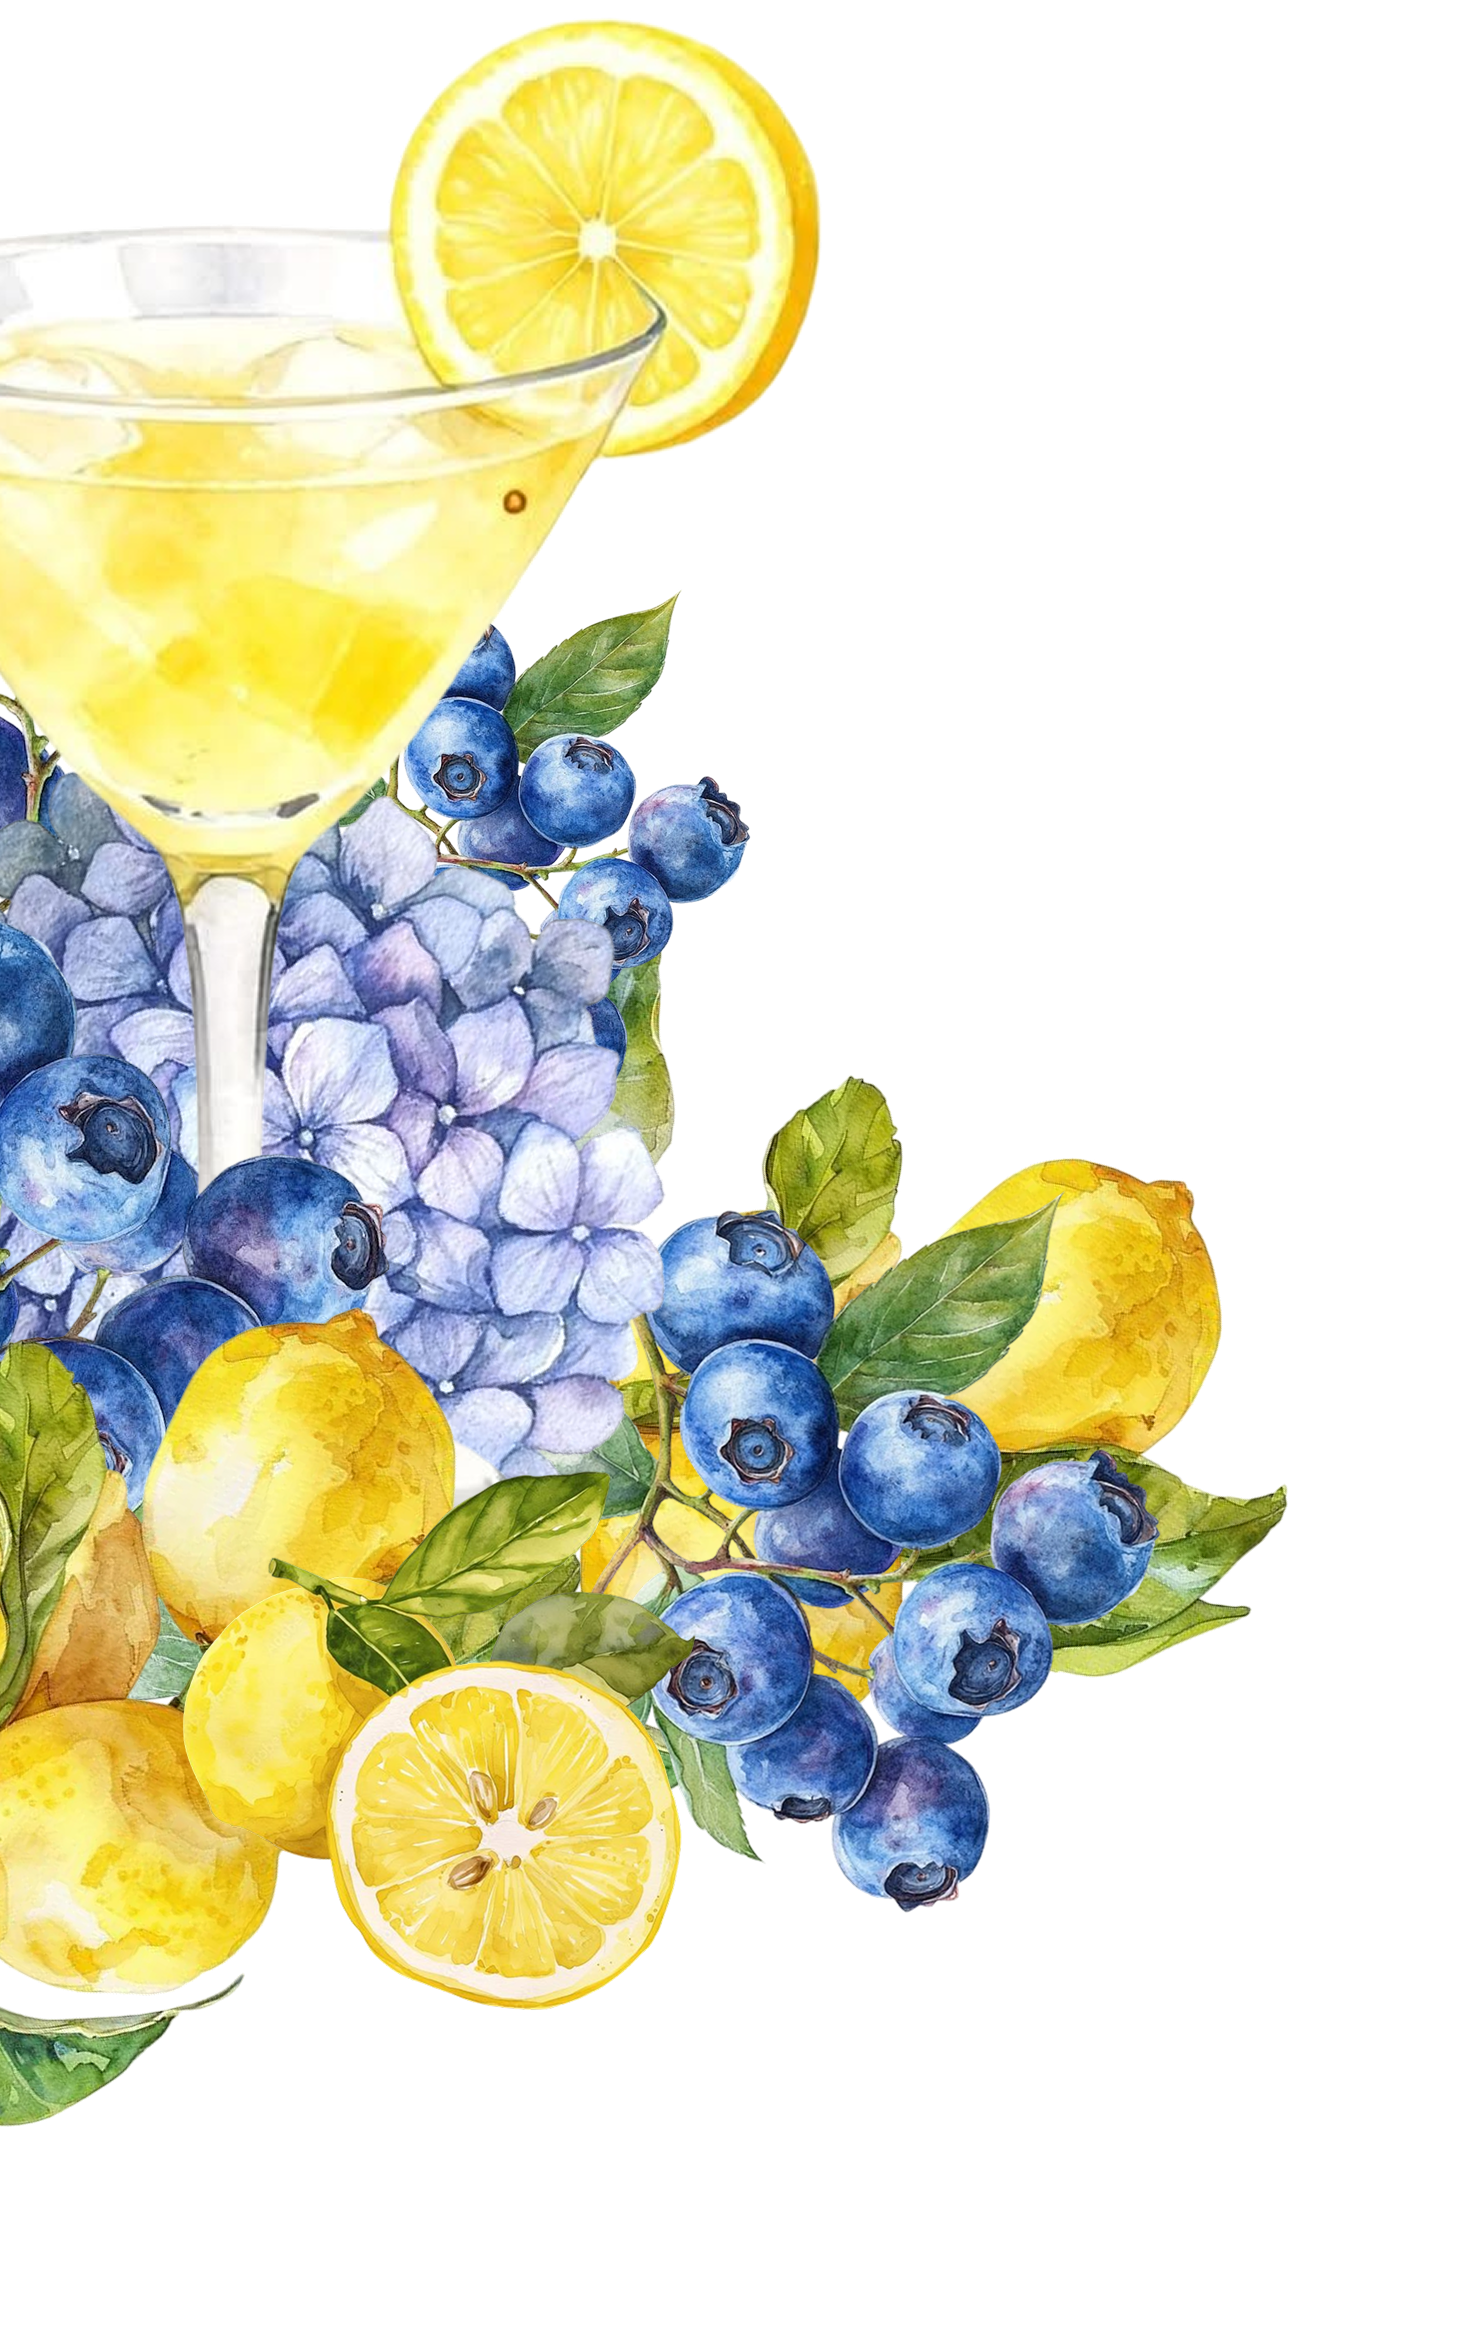
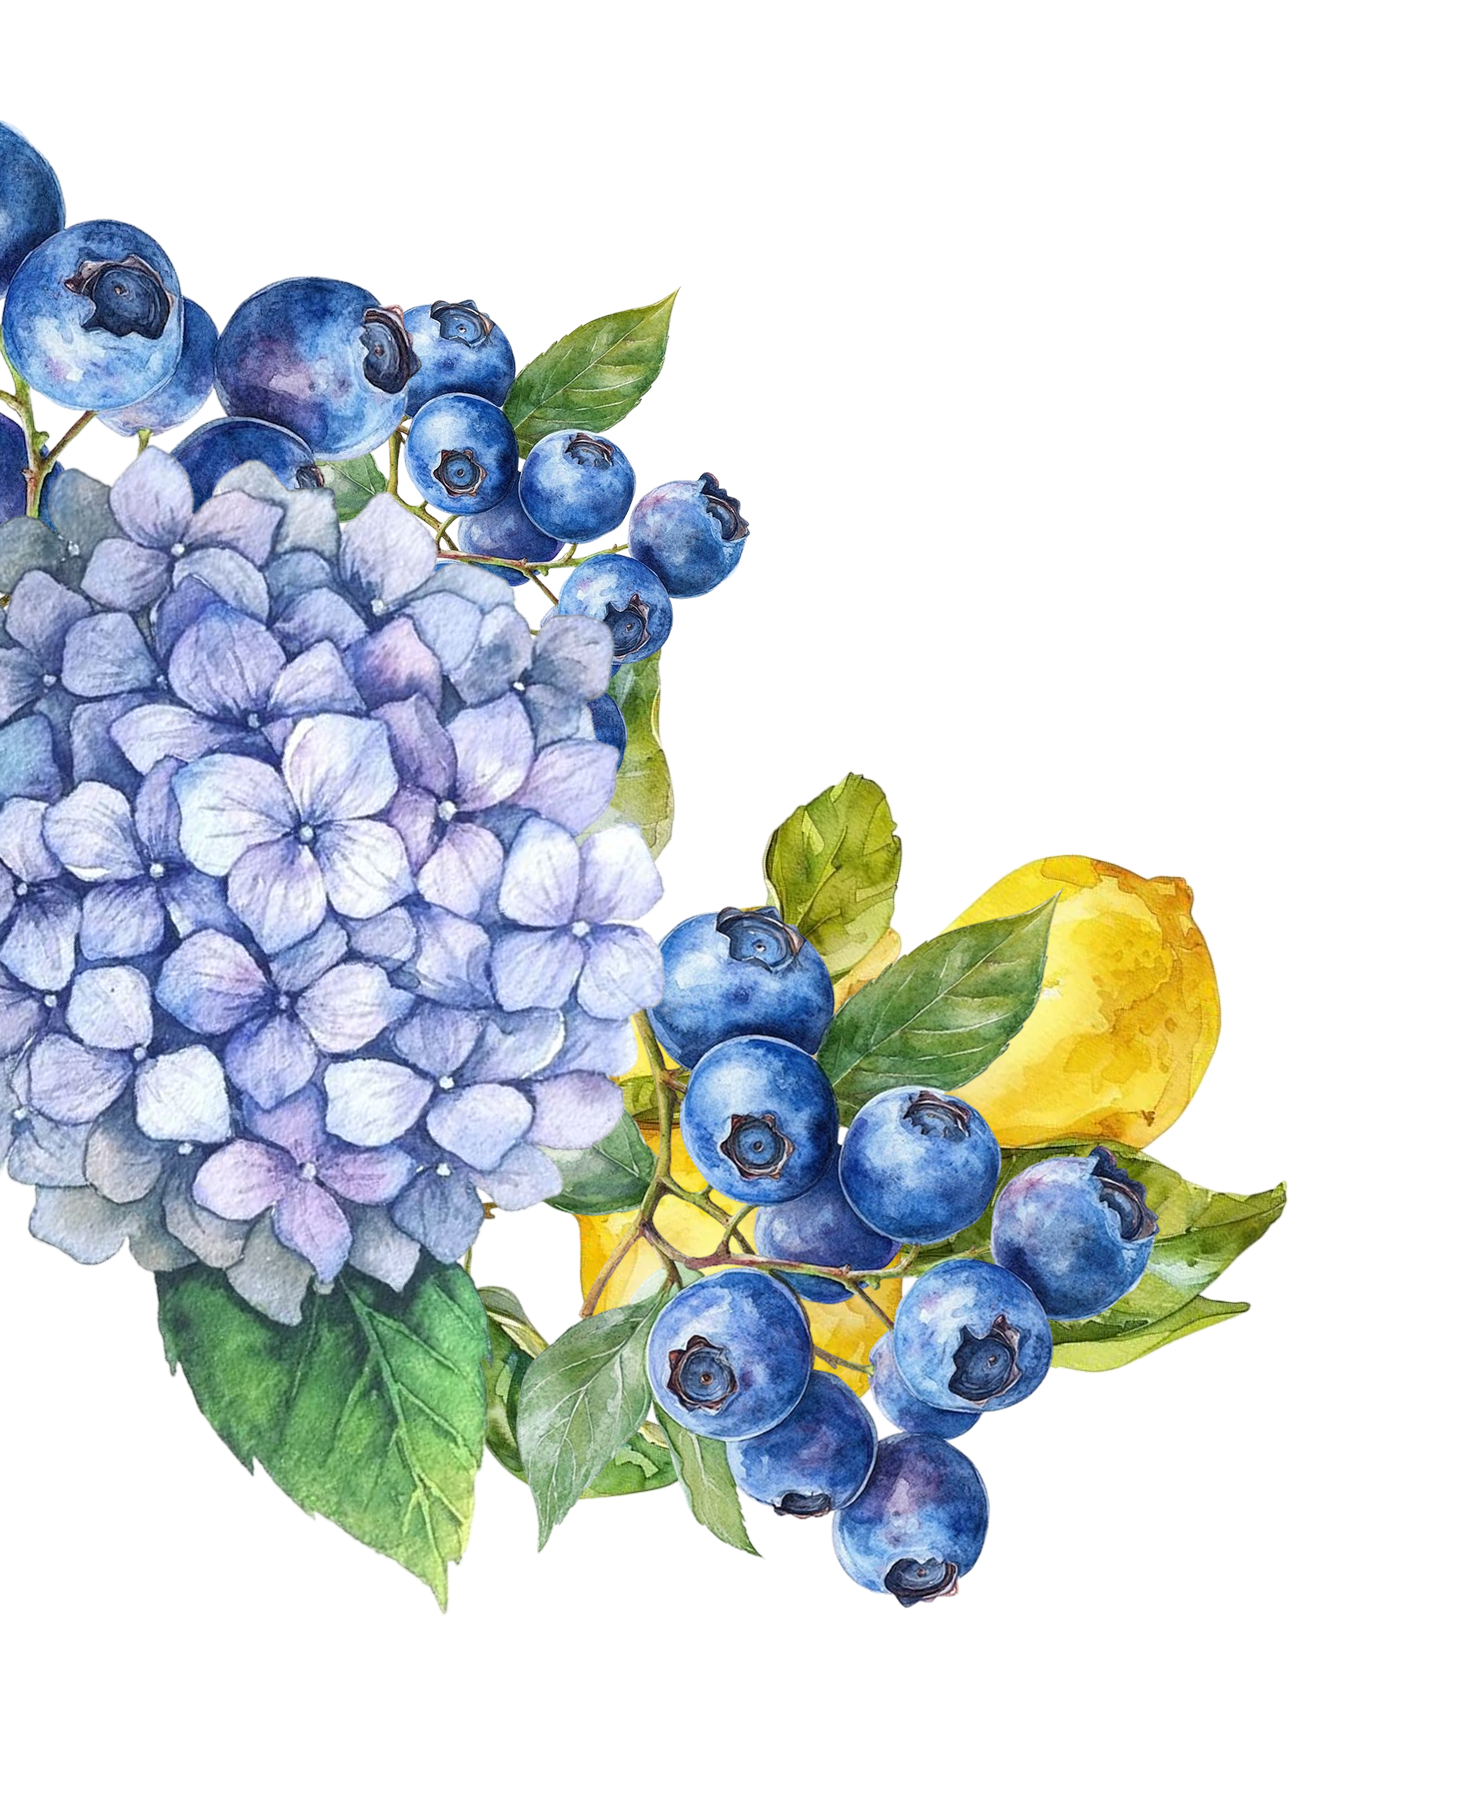
feat: add play pause button

diff --git a/app/components/WeddingAryaRana/Hero.tsx b/app/components/WeddingAryaRana/Hero.tsx
@@ -117,11 +117,14 @@ export default function Hero({ data, isOpen, setIsOpen }: HeroProps) {
         <Image src="/images/arya-dan-rana/mobile/img-daun-kanan-atas-hero-2.png" alt="Picture of gambar kiri atas hero" width={282} height={502} className={`hidden md:block absolute z-[3] right-0 -top-[180px] pointer-events-none ${isOpen ? 'sway-stretch-up' : ''}`} style={{ animationDelay: '0.5s' }} />
         <Image src="/images/arya-dan-rana/dekstop/img-kanan-atas-hero.png" alt="Picture of gambar kiri atas hero" width={615} height={697} className={`hidden md:block w-[500px] absolute z-[3] right-0 top-0 pointer-events-none`} />
 
-        <Image src="/images/arya-dan-rana/mobile/img-daun-kiri-bawah-hero-1.png" alt="Picture of gambar kiri bawah hero" width={369} height={657} className={`hidden md:block absolute z-[3] left-0 -bottom-[100px] pointer-events-none ${isOpen ? 'sway-stretch-left' : ''}`} style={{ animationDelay: '0.5s' }} />
-        <Image src="/images/arya-dan-rana/dekstop/img-kiri-bawah-hero.png" alt="Picture of gambar kiri bawah hero" width={642} height={751} className={`hidden md:block w-[350px] absolute z-[3] left-0 -bottom-[50px] pointer-events-none`} />
+        <Image src="/images/arya-dan-rana/mobile/img-daun-kiri-bawah-hero-1.png" alt="Picture of gambar kiri bawah hero" width={230} height={410} className={`hidden md:block absolute z-[3] left-0 -bottom-[25px] pointer-events-none ${isOpen ? 'sway-stretch-left' : ''}`} style={{ animationDelay: '0.5s' }} />
+        <Image src="/images/arya-dan-rana/mobile/img-kiri-bawah-hero.png" alt="Picture of gambar kiri bawah hero" width={500} height={584} className="hidden md:block w-[300px] lg:w-[340px] absolute z-[3] left-0 -bottom-[25px] pointer-events-none" />
+        <Image src="/images/arya-dan-rana/mobile/img-gelas-kiri-bawah-hero.png" alt="Picture of gambar kiri bawah hero" width={320} height={350} className={`hidden md:block absolute z-[3] -left-[70px] bottom-[90px] pointer-events-none ${isOpen ? 'sway-up' : ''}`} style={{ animationDelay: '0.5s' }} />
+        <Image src="/images/arya-dan-rana/mobile/img-jeruk-kiri-bawah-hero.png" alt="Picture of gambar kiri bawah hero" width={240} height={265} className="hidden md:block absolute w-[160px] lg:w-[180px] z-[3] left-0 bottom-[25px] pointer-events-none" />
 
         <Image src="/images/arya-dan-rana/mobile/img-daun-kanan-bawah-hero-1.png" alt="Picture of gambar kiri atas hero" width={419} height={748} className={`hidden md:block absolute z-[3] right-0 -bottom-[300px] pointer-events-none ${isOpen ? 'sway-stretch-right' : ''}`} style={{ animationDelay: '0.5s' }} />
-        <Image src="/images/arya-dan-rana/dekstop/img-kanan-bawah-hero.png" alt="Picture of gambar kiri bawah hero" width={294} height={312} className={`hidden md:block absolute z-[3] right-0 bottom-0 pointer-events-none`} />
+        <Image src="/images/arya-dan-rana/dekstop/img-kanan-bawah-hero.png" alt="Picture of gambar kiri bawah hero" width={165} height={165} className={`hidden md:block absolute z-[3] right-0 bottom-0 pointer-events-none`} />
+        <Image src="/images/arya-dan-rana/mobile/animasi-burung.gif" alt="Picture of animasi burung hero" width={357} height={211} className={`hidden md:block absolute z-[3] right-0 bottom-[128px] pointer-events-none scale-x-[-1]`} />
       </section>
     </>
   )

diff --git a/app/components/WeddingAryaRana/index.tsx b/app/components/WeddingAryaRana/index.tsx
@@ -2,6 +2,7 @@
 
 import { useState, useEffect, useRef } from 'react'
 import { useMemo } from 'react'
+import { HiVolumeUp, HiVolumeOff } from 'react-icons/hi'
 import { usePreloader } from '../../hooks/preLoader'
 import SectionLoading from '../Loader/SectionLoading'
 
@@ -163,6 +164,22 @@ export default function WeddingAryaRana({ data }: Props) {
     )
   }
 
+  const toggleAudio = async () => {
+    if (!audioRef.current) return
+
+    if (isPlaying) {
+      audioRef.current.pause()
+      setIsPlaying(false)
+    } else {
+      try {
+        await audioRef.current.play()
+        setIsPlaying(true)
+      } catch (error) {
+        console.error('Audio play failed:', error)
+      }
+    }
+  }
+
   return (
     <>
       <audio
@@ -183,6 +200,39 @@ export default function WeddingAryaRana({ data }: Props) {
       {/* <ThingsToDo data={data} isOpen={isOpen} /> */}
       <Wishes data={data} isOpen={isOpen} />
       <Footer data={data} isOpen={isOpen} />
+      <button type="button" onClick={toggleAudio} aria-label={isPlaying ? 'Pause music' : 'Play music'} className="
+          fixed
+          z-[999]
+          right-[20px]
+          bottom-[20px]
+          md:right-[30px]
+          md:bottom-[30px]
+          w-[45px]
+          h-[45px]
+          md:w-[50px]
+          md:h-[50px]
+          rounded-full
+          flex
+          items-center
+          justify-center
+          bg-black/40
+          backdrop-blur-sm
+          border
+          border-white/40
+          text-white
+          shadow-lg
+          transition-all
+          duration-300
+          hover:bg-black/60
+          active:scale-90
+        "
+      >
+        {isPlaying ? (
+          <HiVolumeUp className="text-[21px]" />
+        ) : (
+          <HiVolumeOff className="text-[21px]" />
+        )}
+      </button>
     </>
   )
 }
